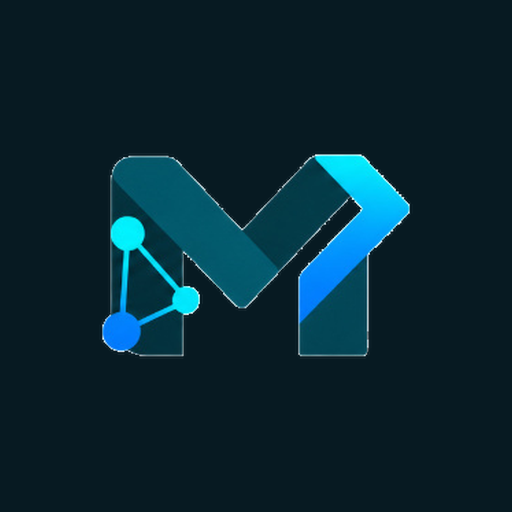
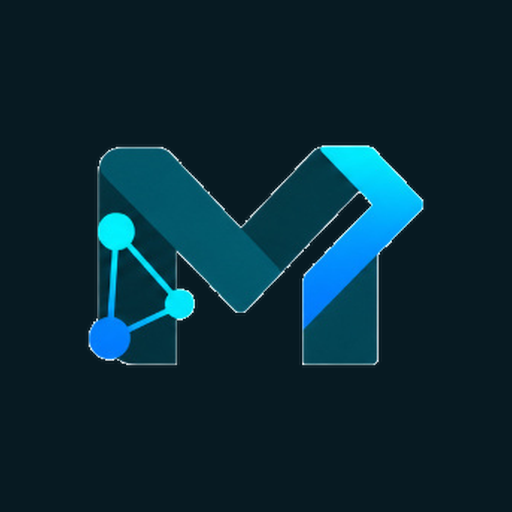
로고를 투명배경 원본으로 교체
- 드라이브 신규 원본(미래에이아이랩_로고_투명배경.png)을 그대로 사용
  (투명 여백만 트리밍, 색 보정 없음)
- 심볼과 파비콘도 동일 원본에서 재생성
- 더 이상 쓰지 않는 이전 JPG 원본 제거
- 배치와 크기는 기존 그대로 유지 (사이드바 상단·크레딧, 홈 리본, 푸터)

Claude-Session: https://claude.ai/code/session_01X1FnwbDZFLz6bsmhPNSDCf

diff --git a/lib/brand.ts b/lib/brand.ts
@@ -1,5 +1,5 @@
 // 미래에이아이랩 브랜드 상수 — EduPlaza는 미래에이아이랩의 레퍼런스 프로젝트다.
-// 로고 원본(JPG)의 배경을 제거해 투명 PNG로 가공했으므로 밝은/어두운 배경 모두에 얹을 수 있다.
+// 로고는 투명 배경 원본 PNG를 그대로 사용한다(여백만 트리밍).
 export const BRAND = {
   company: "미래에이아이랩",
   companyEn: "MIRAE AI LAB",

diff --git a/README.md b/README.md
@@ -58,8 +58,7 @@ npm run build  # 프로덕션 빌드 (Vercel 배포 가능)
 
 | 파일 | 용도 |
 | --- | --- |
-| `mirae-logo.jpg` | 지급받은 원본 (배경 포함) |
-| `mirae-logo.png` | 배경을 제거한 가로형 로고 — 실제 화면에서 사용 |
+| `mirae-logo.png` | 투명 배경 원본 가로형 로고 — 실제 화면에서 사용 |
 | `mirae-symbol.png` | M 심볼만 분리 — 사이드바 상단 |
 | `app/icon.png` | 브라우저 탭 파비콘 (심볼 + 딥네이비 배경) |
 
